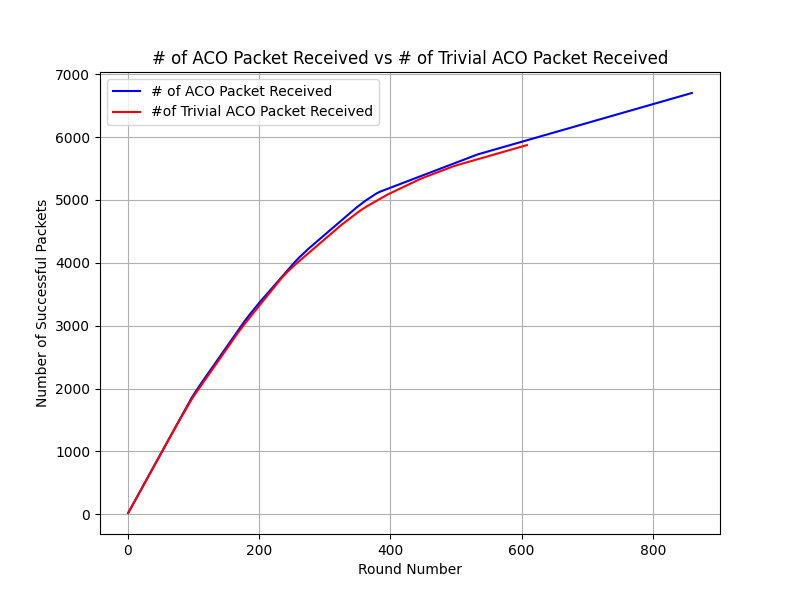
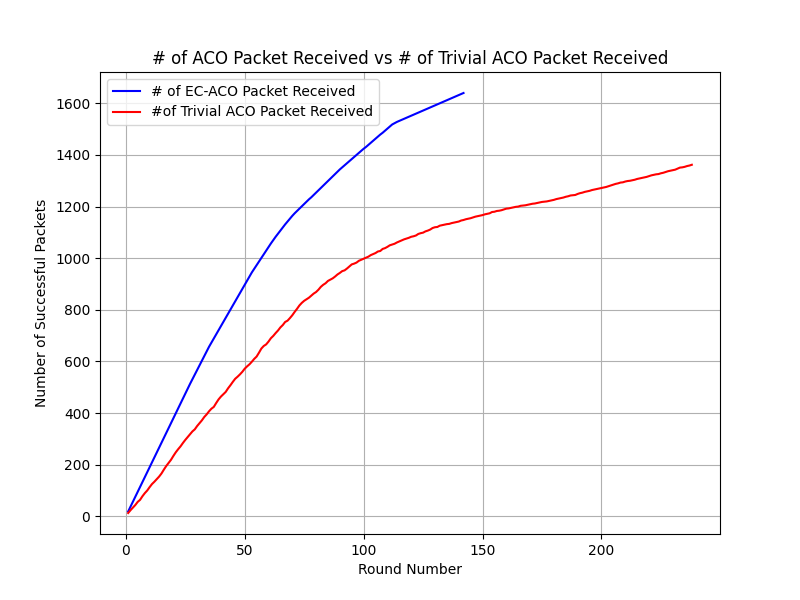
Modified Network life time code, Saving comparison images

diff --git a/ACO_all_nodes.py b/ACO_all_nodes.py
@@ -930,15 +930,16 @@ def plot_graph_static(nodes, path1, path2=[], show_neighbors=True, show_child=Tr
     # Plot the nodes
     for i, node in enumerate(nodes):
         x, y = node.location
-        if i == 0:  # Source node
-            plt.scatter(x, y, color='blue', s=100, label='Source' if i == 0 else "")  # Blue for source
-        elif i == 1:  # Sink node
-            plt.scatter(x, y, color='green', s=100, label='Sink' if i == 1 else "")  # Green for sink
+        if i == 1:  # Sink node
+            plt.scatter(x, y, color='blue', s=100, label='Sink' if i == 1 else "")  # Green for sink
+        elif i==2:
+            plt.scatter(x, y, color='red', s=100, label='Cluster Head')  # Red for all other nodes
         else:
             plt.scatter(x, y, color='red', s=100)  # Red for all other nodes
         # Add labels to the nodes (node_id)
         plt.text(x , y, f'{node.node_id}', fontsize=12)
 
+    
     # Plot the path in green
     for k in range(len(path1) - 1):
         node1 = nodes[path1[k]]     # Current node
@@ -1035,12 +1036,12 @@ def ACO_network_life(nodes, rho, tau_min, tau_max, Elec, epsilon, max_loop):
     counter=100
     success=0
     all_sent=[]
-    while (counter>12 and loop<max_loop):
+    while (counter>20 and loop<max_loop):
         loop+=1
         for node in nodes:
             if node.node_id != 1 and node.energy>0:
-                dropped, opti_path = send_data(node.node_id, sink_node.node_id, nodes, None, 400, Elec, epsilon, rho, tau_min, tau_max)
-                if dropped==0:
+                dropped, opti_path = send_data(node.node_id, sink_node.node_id, nodes, 15, 400, Elec, epsilon, rho, tau_min, tau_max)
+                if dropped<=5:
                     success+=1
                 # all_sent.append(opti_path)
                 # if (loop %1000 )==1 and loop>1000:
@@ -1087,11 +1088,11 @@ def trivial_ACO_network_life(nodes, rho, tau_min, tau_max, Elec, epsilon, max_lo
     counter=100
     success=0
     all_sent=[]
-    while (counter>12 and loop<max_loop):
+    while (counter>20 and loop<max_loop):
         loop+=1
         for node in nodes:
             if node.node_id != 1 and node.energy>0:
-                dropped, opti_path = send_data(node.node_id, sink_node.node_id, nodes, None, 400, Elec, epsilon, rho, tau_min, tau_max, True)
+                dropped, opti_path = send_data(node.node_id, sink_node.node_id, nodes, 10, 400, Elec, epsilon, rho, tau_min, tau_max, True)
                 if(dropped==0):
                     success+=1
                     
@@ -1109,7 +1110,7 @@ def trivial_ACO_network_life(nodes, rho, tau_min, tau_max, Elec, epsilon, max_lo
                     mini=min(mini,energy)
                     if energy>0:
                         counter+=1
-                total+=counter
+                # total+=counter
         
         if((loop % 200 )==1):
             for node in nodes:
@@ -1125,18 +1126,26 @@ def trivial_ACO_network_life(nodes, rho, tau_min, tau_max, Elec, epsilon, max_lo
     
     return alive_nodes, packet_loss_ratio
 
-def FDN(nodes, rho, tau_min, tau_max, Elec, epsilon):
+def FDN(nodes, rho, tau_min, tau_max, Elec, epsilon, mini_loss, max_loss):
+    loss_matrix=np.random.rand(len(nodes),len(nodes)) 
+    for i in range(len(nodes)):
+        for j in range(len(nodes)):
+            loss_matrix[i][j]=loss_matrix[i][j]*(max_loss-mini_loss)+mini_loss
+            loss_matrix[j][i]=loss_matrix[i][j]
+    for node in nodes:
+        node.loss_matrix=loss_matrix
+
     nodes1=copy.deepcopy(nodes)
     max_loop=5000
     aco_network_life, aco_packet_loss=ACO_network_life(nodes, rho, tau_min, tau_max, Elec, epsilon, max_loop)
     trivial_aco_network_life, trivial_aco_packet_loss=trivial_ACO_network_life(nodes1, rho, tau_min, tau_max, Elec, epsilon, max_loop)
-    label1="ACO Network Life"
+    label1="EC-ACO Network Life"
     label2="Trivial ACO Network Life"
     x_axis="Round Number"
     y_axis="Number of Alive Nodes"
     title='ACO Network Life vs Trivial ACO Network Life'
     plot_packet_loss(aco_network_life, trivial_aco_network_life, label1, label2, x_axis, y_axis, title)
-    label1="# of ACO Packet Received"
+    label1="# of EC-ACO Packet Received"
     label2="#of Trivial ACO Packet Received"
     x_axis="Round Number"
     y_axis="Number of Successful Packets"
@@ -1162,6 +1171,13 @@ def with_erasure(nodes, rho,tau_min, tau_max, number_of_rounds=500):
                 dropped, opti_path = send_data(node.node_id, 1, nodes, 15, 400, Elec, epsilon, rho, tau_min, tau_max)
                 if(dropped<=5):
                     success+=1
+        
+        if((loop % 200 )==1):
+            for node in nodes:
+                if node.node_id != 1:
+                    for i in range(5):
+                        establish_route(node.node_id, 1, nodes, rho, tau_min, tau_max)
+
         erasure_code.append((loop, success))
     
     return erasure_code
@@ -1180,6 +1196,11 @@ def wo_erasure_code(nodes, rho,tau_min, tau_max, number_of_rounds=500):
                 dropped, opti_path = send_data(node.node_id, 1, nodes, 10, 400, Elec, epsilon, rho, tau_min, tau_max)
                 if(dropped==0):
                     success+=1
+        if((loop % 200 )==1):
+            for node in nodes:
+                if node.node_id != 1:
+                    for i in range(5):
+                        establish_route(node.node_id, 1, nodes, rho, tau_min, tau_max)
         wo_erasure_code.append((loop, success))
 
     return wo_erasure_code
@@ -1199,14 +1220,14 @@ def packet_loss_ratio(nodes, rho, tau_min, tau_max, mini_loss, max_loss):
     number_of_rounds=500
     w_erasure=with_erasure(nodes, rho, tau_min, tau_max, number_of_rounds)
     wo_erasure=wo_erasure_code(nodes1, rho, tau_min, tau_max, number_of_rounds)
-    label1="With Erasure Code"
-    label2="Without Erasure Code"
+    label1="EC-ACO"
+    label2="ECOCR"
     x_axis="Round Number"
     y_axis="Number of Successful Packets"
     title='Packet Loss Ratio Over Rounds'
     plot_packet_loss(w_erasure, wo_erasure, label1, label2, x_axis, y_axis, title)
-    print("Packet Success Ratio with Erasure Code: ", w_erasure[-1][1]/((len(nodes)-1)*number_of_rounds))
-    print("Packet Success Ratio without Erasure Code: ", wo_erasure[-1][1]/((len(nodes)-1)*number_of_rounds))
+    print("Data Success Ratio with EC-ACO: ", w_erasure[-1][1]/((len(nodes)-1)*number_of_rounds))
+    print("Data Success Ratio ECOCR: ", wo_erasure[-1][1]/((len(nodes)-1)*number_of_rounds))
 
 def plot_packet_loss(first_list, second_list, label1, label2, x_axis, y_axis, title):
     rounds1, success1 = zip(*first_list)
@@ -1230,7 +1251,7 @@ def plot_packet_loss(first_list, second_list, label1, label2, x_axis, y_axis, ti
 # Example of setting up the network, initializing ants, and moving ants
 n = 20              # Number of nodes
 side_length = 500    # Side length of square area of network
-energy = 0.1        # Same energy level for all nodes
+energy = 0.5        # Same energy level for all nodes
 r_min = 100            # Neighbor node range
 r_max = 250*(1)            # Neighbor node range
 num_ants = 100        # Number of ants
@@ -1243,11 +1264,11 @@ epsilon = 0.00131*(10**(-12))
 
 
 
-with open('network_structure_nodes_1.pkl', 'rb') as file:
-    nodes = pickle.load(file)
+# with open('network_structure_nodes_1.pkl', 'rb') as file:
+#     nodes = pickle.load(file)
 
 # Generate nodes
-# nodes = initialize_nodes(n,side_length, r_min, r_max,energy, num_ants, initial_pheromone)
+nodes = initialize_nodes(n,side_length, r_min, r_max,energy, num_ants, initial_pheromone)
 
 # with open('network_structure_nodes.pkl', 'wb') as file:
 #     pickle.dump(nodes, file)
@@ -1263,8 +1284,8 @@ plot_graph_static(nodes, path)
 # all_nodes = []
 
     
-# packet_loss_ratio(nodes, rho, tau_min, tau_max, 0.1, 0.2)
-alive_nodes = FDN(nodes, rho, tau_min, tau_max, Elec, epsilon)
+# packet_loss_ratio(nodes, rho, tau_min, tau_max, 0, 0.2)
+alive_nodes = FDN(nodes, rho, tau_min, tau_max, Elec, epsilon, 0, 0.2)
 # alive_nodes = F_Disconnected_N(nodes, rho, tau_min, tau_max, Elec, epsilon)
 # plot_graph(all_nodes,[], show_neighbors=False, interval=1)
 # plot_alive_nodes(alive_nodes)
